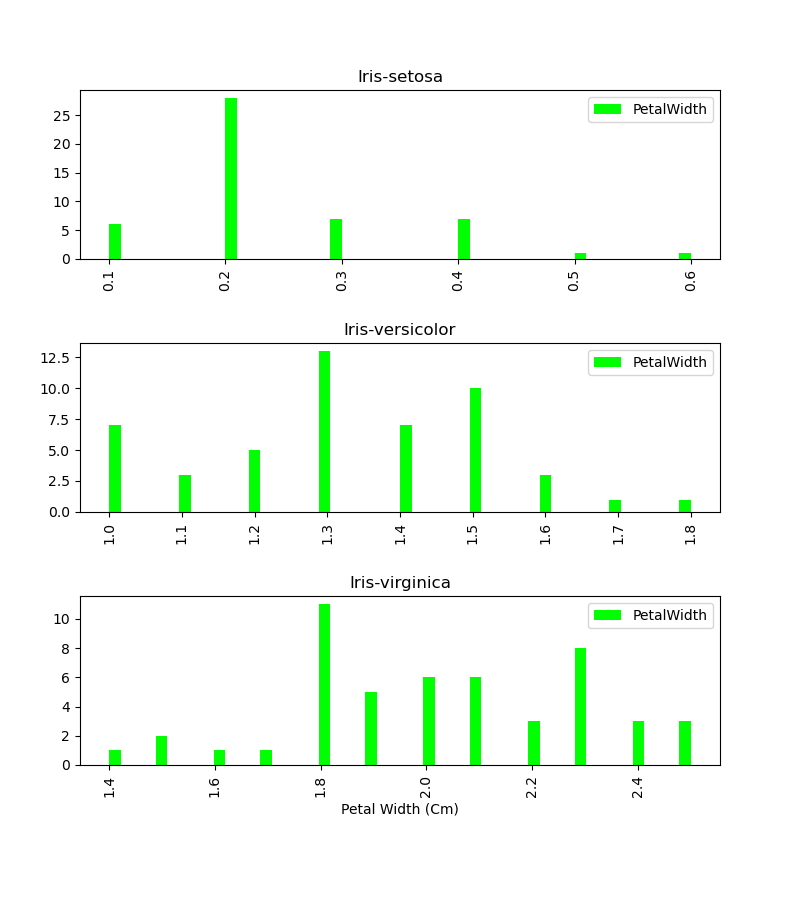
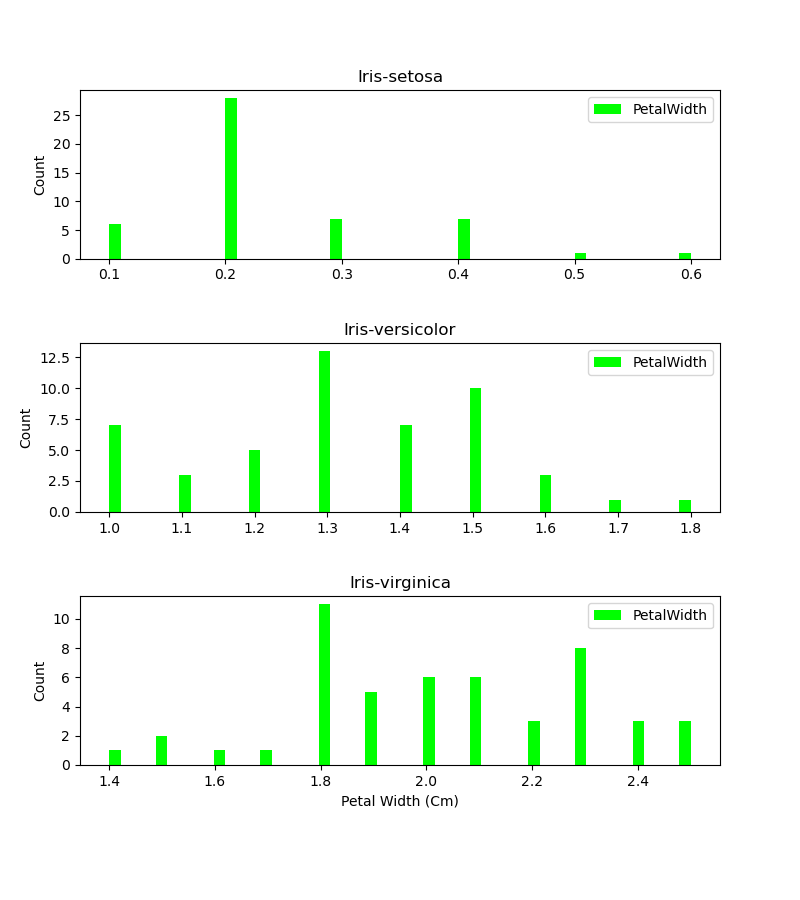
scatterplots code

diff --git a/histograms.py b/histograms.py
@@ -13,51 +13,56 @@ layout=(3,1), color='m')
 
 #Set x-axis label that represents x-axis for all subplots[7]
 plt.xlabel("Sepal Length (Cm)")
-#Save histogram as png file[11]
-plt.savefig('SepalLength.png')
 
 #create a for loop to set y-axis labels and rotate the x-axis labels to 0 degrees for all subplots[8][9]
 for ax in graph.flat:
     ax.set(ylabel='Count')
     ax.tick_params(axis='x', labelrotation = 0)
+
+#Save histogram as png file[11][15]
+plt.savefig('Histogram_SepalLength.png',format="png")
     
 #create histogram the counts the flowers with same sepal Width and group by species and set parameters[6][7]
 graph1 = data.hist(column='SepalWidth', by='Species', bins=50, legend=True, grid=True, figsize=(8,9), 
 layout=(3,1), color='y')
 #Set x-axis label that represents x-axis for all subplots[7]
 plt.xlabel("Sepal Width (Cm)")
-#Save histogram as png file[11]
-plt.savefig('SepalWidth.png')
 
 #create a for loop to set y-axis labels and rotate the x-axis labels to 0 degrees for all subplots[8][9]
 for ax in graph1.flat:
     ax.set(ylabel='Count')
     ax.tick_params(axis='x', labelrotation = 0)
 
+#Save histogram as png file[11][15]
+plt.savefig('SepalWidth.png',format="png")
+
 #create histogram the counts the flowers with same petal length and group by species and set parameters[6][7]
 graph2 = data.hist(column='PetalLength', by='Species', bins=50, legend=True, grid=True, figsize=(8,9), 
 layout=(3,1), color='c')
 #Set x-axis label that represents x-axis for all subplots[7]
 plt.xlabel("Petal Length (Cm)")
-#Save histogram as png file[11]
-plt.savefig('petalLength.png')
 
 #create a for loop to set y-axis labels and rotate the x-axis labels to 0 degrees for all subplots[8][9]
 for ax in graph2.flat:
     ax.set(ylabel='Count')
     ax.tick_params(axis='x', labelrotation = 0)
 
+#Save histogram as png file[11][15]
+plt.savefig('Histogram_petalLength.png', format="png")
+
 #create histogram the counts the flowers with same Petal Width and group by species and set parameters[6][7]
 graph3 = data.hist(column='PetalWidth', by='Species', bins=50, legend=True, grid=True, figsize=(8,9), 
 layout=(3,1), color='#00FF00')
 #Set x-axis label that represents x-axis for all subplots[7]
 plt.xlabel("Petal Width (Cm)")
-#Save histogram as png file[11]
-plt.savefig('PetalWidth.png')
+
 #create a for loop to set y-axis labels and rotate the x-axis labels to 0 degrees for all subplots[8][9]
 for ax in graph3.flat:
     ax.set(ylabel='Count')
     ax.tick_params(axis='x', labelrotation = 0)
+
+#Save histogram as png file[11][15]
+plt.savefig('Histogram_PetalWidth.png',format="png")
     
 #Display Graphs
 plt.show()

diff --git a/scatterplots.py b/scatterplots.py
@@ -1,0 +1,43 @@
+#Need to use package pandas
+import pandas as pd
+import numpy as np
+import matplotlib.pyplot as plt
+
+#read in the iris dataset and assign it a avariable name data [2]
+data = pd.read_csv("C:/Users/Owner/Desktop/pands-project/pands-project/pands-project/iris.txt")
+
+#create two arrays of x and y values which are the sepal lengths and sepal widths respectively
+xs= data["SepalLength"]
+ys=data["SepalWidth"]
+
+#plot a scatter plot with its colour defining the class of species and outlining the edge of the data points with the colour black(k) [5][14]
+plot=plt.scatter(xs,ys,label = "Sepal Length vs Sepal Width $", c = data.Species.astype("category").cat.codes,edgecolors="k") 
+#create an array of the types of iris flowers for the legend
+flowerNames=["Iris Setosa","Iris Versicolor","Iris Virginica"]
+#label the x and y axes accordingly
+plt.xlabel("x-Axis")
+plt.ylabel("y-Axis")
+#Create a legend showing which of the species each colour of the data points represents[15] 
+plt.legend(handles=plot.legend_elements()[0], labels=flowerNames, 
+           title="Species")
+#display plot
+plt.show()
+#Save histogram as png file[11][15]
+plt.savefig('ScatterPlot_SepalWidth_VS_SepalLength.png', format="png")
+
+#create two new arrays with x values as petal lengths and y values as petal widths
+x2s=data["PetalLength"]
+y2s=data["PetalWidth"]
+
+#plot another scatter plot for the petal lengths and widths with stars as data points
+plot2=plt.scatter(x2s,y2s,label = "Petal Length vs Petal Width $", c = data.Species.astype("category").cat.codes, marker="*")
+#label the x and y axes
+plt.xlabel("x-Axis")
+plt.ylabel("y-Axis")
+#Create a legend showing which of the species each colour of the data points represents[15] 
+plt.legend(handles=plot.legend_elements()[0], labels=flowerNames, 
+           title="Species")
+#display plot           
+plt.show()
+#Save histogram as png file[11][15]
+plt.savefig('ScatterPlot_PetalWidth_VS_PetalLength.png',format="png")
